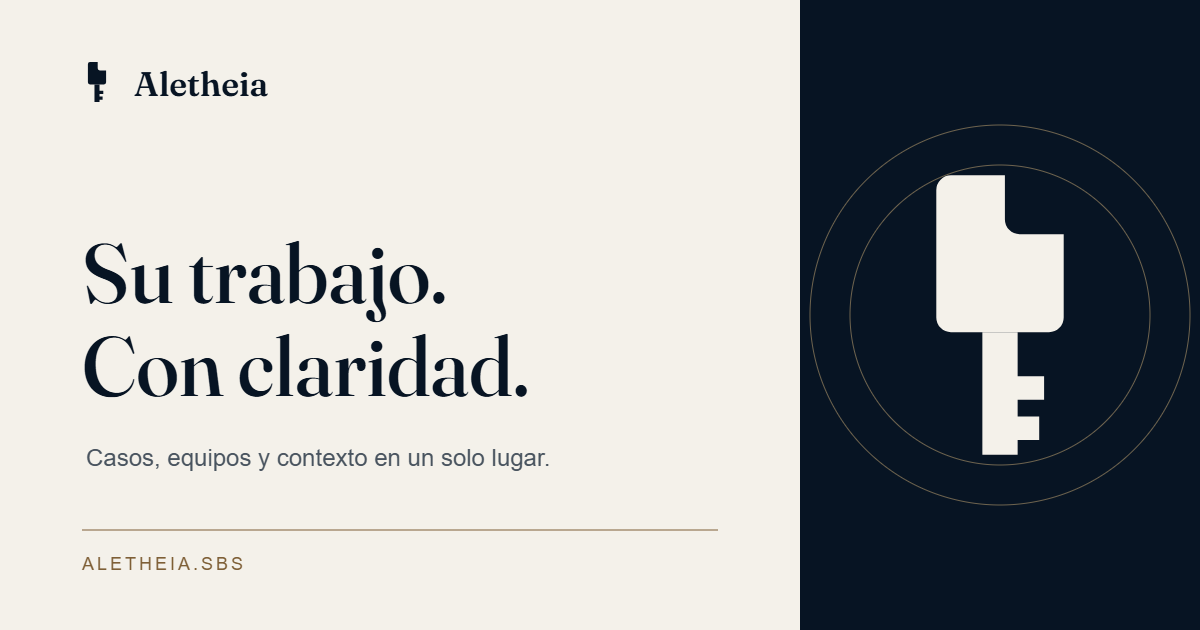
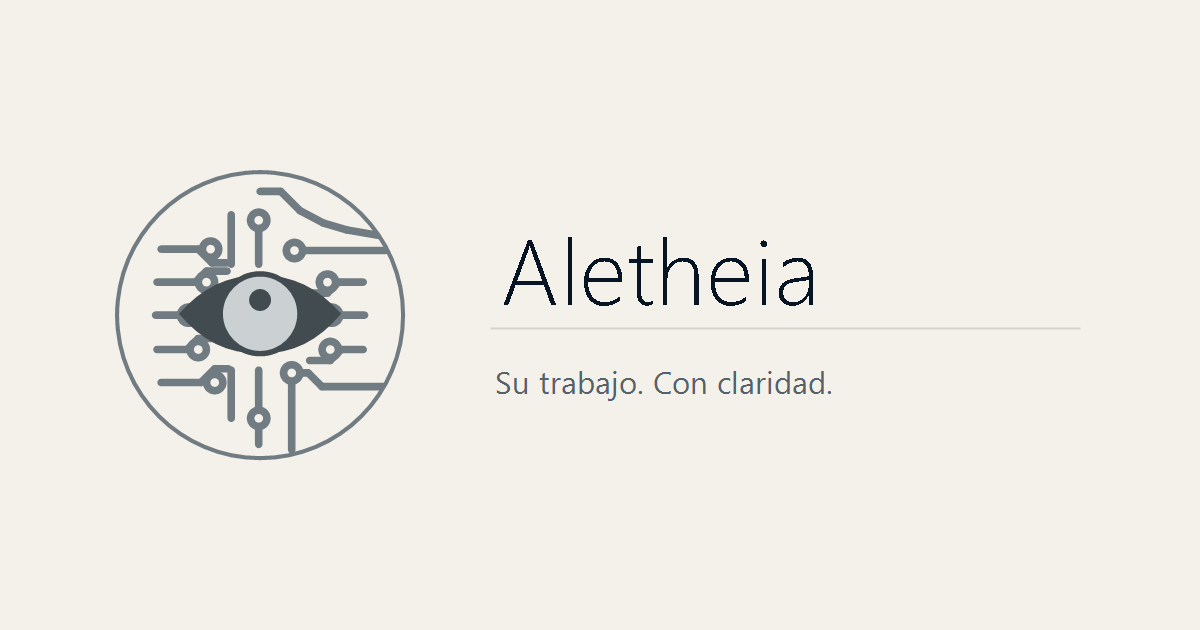
feat(brand): implement approved Aletheia identity

diff --git a/frontend/src/config/brandAssets.test.ts b/frontend/src/config/brandAssets.test.ts
@@ -1,0 +1,66 @@
+import { readFileSync } from "node:fs";
+import { join } from "node:path";
+import { describe, expect, it } from "vitest";
+
+const ROOT = join(import.meta.dirname, "../..");
+
+function asset(path: string): Buffer {
+  return readFileSync(join(ROOT, path));
+}
+
+function pngSize(path: string): [number, number] {
+  const bytes = asset(path);
+  expect(bytes.subarray(1, 4).toString("ascii")).toBe("PNG");
+  return [bytes.readUInt32BE(16), bytes.readUInt32BE(20)];
+}
+
+describe("recursos de la marca", () => {
+  it.each([
+    "src/assets/simbolo.svg",
+    "public/brand/symbol-dark.svg",
+    "public/brand/symbol-white.svg",
+  ])("%s usa el símbolo vectorial aprobado y sigue siendo escalable", (path) => {
+    const svg = asset(path).toString("utf8");
+    expect(svg).toContain('data-brand="aletheia-eye-circuit"');
+    expect(svg).toMatch(/viewBox="0 0 240 240"/);
+    expect(svg).not.toMatch(/<svg[^>]+(?:width|height)=/);
+    expect(svg).not.toMatch(/<(?:image|script)|(?:href|src)="https?:\/\//);
+  });
+
+  it("conserva el mismo símbolo en el favicon", () => {
+    const svg = asset("public/favicon.svg").toString("utf8");
+    expect(svg).toContain('data-brand="aletheia-eye-circuit"');
+    expect(svg).toContain('data-variant="small"');
+    expect(svg).toMatch(/viewBox="0 0 240 240"/);
+    expect(svg).not.toContain("<rect");
+  });
+
+  it.each([
+    ["public/favicon.png", 32],
+    ["public/apple-touch-icon.png", 180],
+    ["public/icon-192.png", 192],
+    ["public/icon-512.png", 512],
+    ["public/email/logo-claro.png", 128],
+  ] as const)("%s tiene %i píxeles cuadrados", (path, size) => {
+    expect(pngSize(path)).toEqual([size, size]);
+  });
+
+  it("publica una imagen social en formato panorámico", () => {
+    expect(pngSize("public/og-image.png")).toEqual([1200, 630]);
+  });
+
+  it("publica favicon clásico y los tamaños instalables", () => {
+    const html = asset("index.html").toString("utf8");
+    const manifest = JSON.parse(asset("public/site.webmanifest").toString("utf8")) as {
+      icons: { sizes: string; purpose?: string }[];
+    };
+    expect(html).toContain('href="/favicon.ico"');
+    expect(html).toContain('sizes="180x180"');
+    expect(manifest.icons).toEqual(
+      expect.arrayContaining([
+        expect.objectContaining({ sizes: "192x192" }),
+        expect.objectContaining({ sizes: "512x512", purpose: "any maskable" }),
+      ]),
+    );
+  });
+});

diff --git a/frontend/src/pages/InformationPage.tsx b/frontend/src/pages/InformationPage.tsx
@@ -211,7 +211,7 @@ export function InformationPage() {
       <link rel="canonical" href={SITE_URL + pathname} />
       <header className={styles.centerHead}>
         <div className={styles.brandTile}>
-          <img src={logo} width={48} height={48} alt="" />
+          <img src={logo} width={84} height={84} alt="" />
         </div>
         <h1>{title}</h1>
         <p>{lead}</p>
@@ -252,17 +252,18 @@ export function InformationPage() {
           <div className={styles.prose}>
             <h2>El símbolo de Aletheia</h2>
             <p>
-              El símbolo es un sello con las manecillas de un reloj: el momento
-              exacto en que una evidencia queda registrada. Sus dos versiones,
-              clara y oscura, permiten conservar el contraste sobre diferentes
-              superficies. Utilice el archivo vectorial para mantener la nitidez
-              en cualquier tamaño.
+              El símbolo combina un campo circular, un ojo y líneas digitales.
+              El círculo expresa resguardo y continuidad; el ojo, observación
+              cuidadosa y búsqueda de claridad; los circuitos representan la
+              trazabilidad técnica de la información. Sus versiones clara y
+              oscura conservan el contraste sobre cualquier superficie.
             </p>
             <h2>Uso del nombre</h2>
             <p>
-              Se escribe Aletheia. Mantenga el símbolo proporcionado, con
-              espacio alrededor y contraste suficiente. No añada sombras ni
-              estire la imagen.
+              Se escribe Aletheia. Mantenga el símbolo proporcionado, con un
+              espacio libre mínimo equivalente a la pupila y contraste
+              suficiente. No cambie sus proporciones ni añada fondos, sombras,
+              inclinaciones o elementos alrededor del círculo.
             </p>
             <a href="/brand/symbol-white.svg" download="aletheia-blanco.svg">
               Descargar símbolo blanco (SVG)

diff --git a/frontend/index.html b/frontend/index.html
@@ -12,8 +12,9 @@
       content="Organice sus casos y su equipo jurídico. Compruebe huellas SHA-256 en su navegador y explore los fundamentos de la evidencia digital."
     />
 
-    <link rel="icon" type="image/png" sizes="32x32" href="/favicon.png" />
     <link rel="icon" type="image/svg+xml" href="/favicon.svg" />
+    <link rel="icon" type="image/png" sizes="32x32" href="/favicon.png" />
+    <link rel="icon" href="/favicon.ico" sizes="16x16 32x32 48x48" />
     <!-- Las fuentes de interfaz y editorial se precargan desde el mismo origen. -->
     <link
       rel="preload"
@@ -29,7 +30,7 @@
       type="font/woff2"
       crossorigin
     />
-    <link rel="apple-touch-icon" href="/apple-touch-icon.png" />
+    <link rel="apple-touch-icon" sizes="180x180" href="/apple-touch-icon.png" />
     <link rel="manifest" href="/site.webmanifest" />
     <meta property="og:type" content="website" />
     <meta property="og:locale" content="es_CO" />
@@ -48,7 +49,7 @@
     <meta property="og:image:height" content="630" />
     <meta
       property="og:image:alt"
-      content="Aletheia. Su trabajo. Con claridad. Candado y anillos de criptografía sobre fondo oscuro."
+      content="Aletheia. Su trabajo. Con claridad. Símbolo circular con un ojo y líneas de trazabilidad digital."
     />
     <meta name="twitter:card" content="summary_large_image" />
   </head>

diff --git a/frontend/src/pages/EditorialPage.module.css b/frontend/src/pages/EditorialPage.module.css
@@ -27,14 +27,11 @@
   place-items: center;
   width: 84px;
   height: 84px;
-  border: 1px solid var(--ink-hairline);
-  border-radius: 24px;
   margin: 0 auto 32px;
-  background: linear-gradient(145deg, var(--ink-hairline), var(--ink-700) 65%);
-  box-shadow:
-    inset 0 1px 1px color-mix(in srgb, var(--ink-900) 19%, transparent),
-    0 12px 50px color-mix(in srgb, var(--ink-900) 3%, transparent);
-  transform: rotate(-8deg);
+}
+.brandTile img {
+  width: 84px;
+  height: 84px;
 }
 .cards {
   display: grid;
@@ -217,9 +214,7 @@
   z-index: 1;
   font: 400 clamp(40px, 4.5vw, 62px)/1 var(--font-editorial);
   letter-spacing: -0.03em;
-  background: linear-gradient(var(--ink-900), var(--line-control));
-  color: transparent;
-  background-clip: text;
+  color: var(--text);
 }
 .articleVisual small {
   position: relative;

diff --git a/frontend/src/pages/OrganizationAuditPage.module.css b/frontend/src/pages/OrganizationAuditPage.module.css
@@ -76,7 +76,7 @@
   padding: var(--space-3);
   border-top: 1px solid var(--ink-hairline);
   vertical-align: middle;
-  /* Solo como último recurso: un agente de navegador es una sola cadena larga. */
+  /* Como último recurso, una identificación de navegador puede ser una cadena larga. */
   overflow-wrap: break-word;
 }
 

diff --git a/frontend/src/layouts/PublicLayout.tsx b/frontend/src/layouts/PublicLayout.tsx
@@ -30,6 +30,7 @@ const CURRENT_YEAR = new Date().getFullYear();
 function Brand() {
   return (
     <Link to={ROUTES.home} className={styles.brand} aria-label={WORDMARK}>
+      <img src="/brand/symbol-dark.svg" alt="" width="32" height="32" />
       <span aria-hidden="true">{WORDMARK}</span>
     </Link>
   );

diff --git a/frontend/src/layouts/PublicLayout.module.css b/frontend/src/layouts/PublicLayout.module.css
@@ -51,8 +51,8 @@
   line-height: 1;
 }
 .brand img {
-  width: 25px;
-  height: 25px;
+  width: 32px;
+  height: 32px;
 }
 .actions {
   display: flex;
